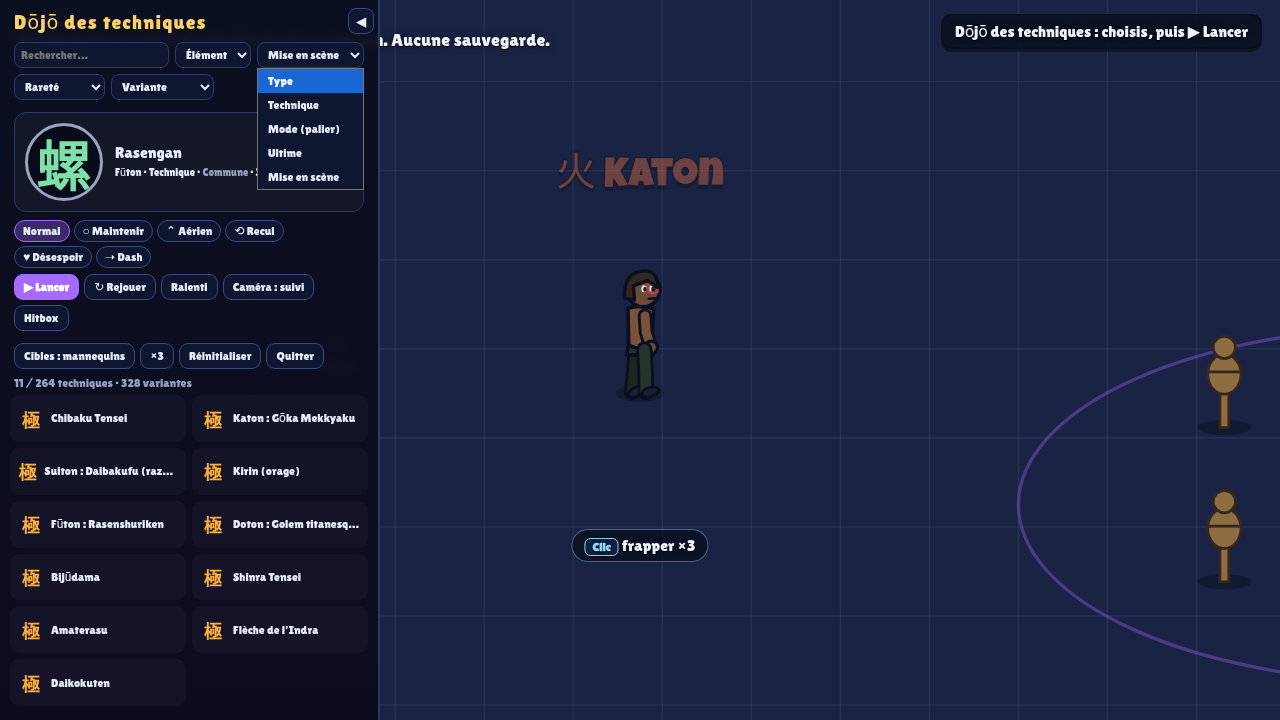
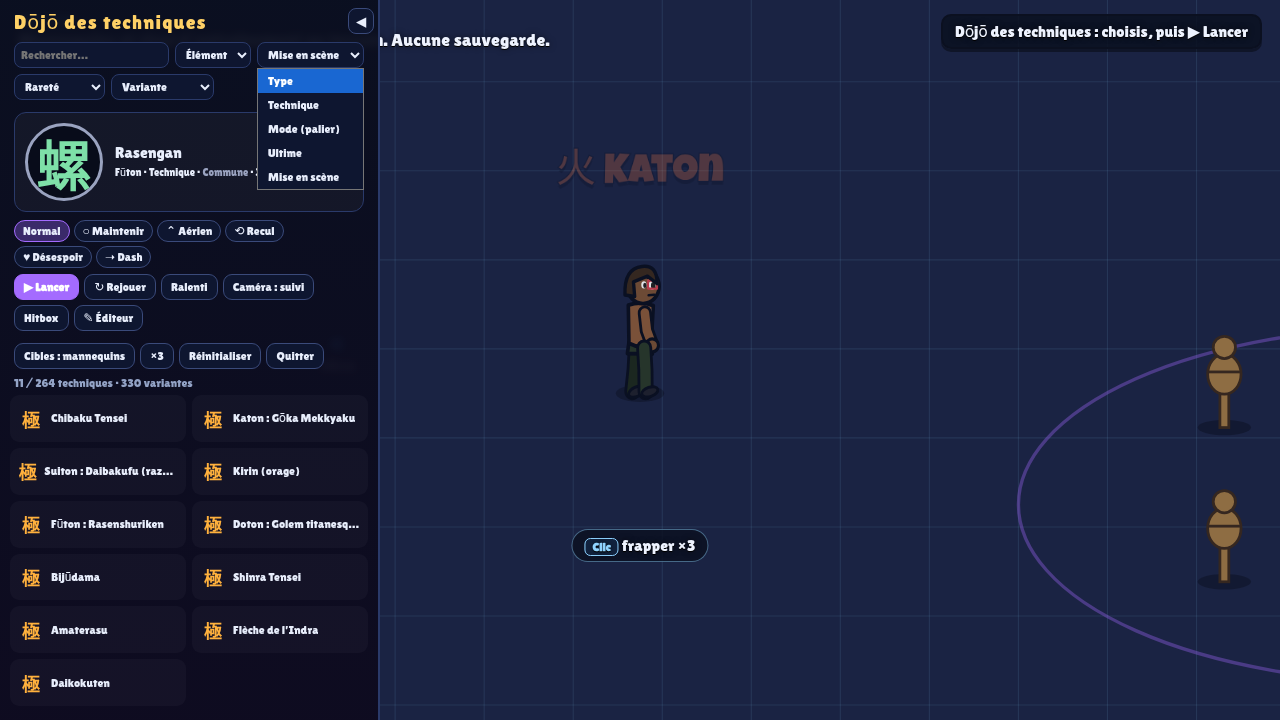
v0.9.3: in-game technique/VFX editor, ADDING_TECHNIQUES.md

diff --git a/index.html b/index.html
@@ -104,7 +104,7 @@ button.b.p{background:var(--gold);color:var(--ink)}button.b.p2{background:var(--
 <script>
 'use strict';
 /* ============ Noyau : réglages, sauvegarde, entrées, audio ============ */
-const VERSION = '0.9.2';
+const VERSION = '0.9.3';
 const $ = (s) => document.querySelector(s);
 const TAU = Math.PI * 2, clamp = (v, a, b) => (v < a ? a : v > b ? b : v), lerp = (a, b, t) => a + (b - a) * t;
 const rnd = (a, b) => a + Math.random() * (b - a), pick = (a) => a[(Math.random() * a.length) | 0];
@@ -3280,5 +3280,56 @@ addEventListener('touchstart',()=>document.body.classList.add('touch07'),{passiv
     g.restore(); g.globalAlpha = 1; g.globalCompositeOperation = 'source-over'; };
 })();
 (() => { if (!window.MODE08) return; const st = MODE08.stage.bind(MODE08); MODE08.stage = function (h, n) { const r = st(h, n); try { const M = h.md, S = M && MODE08.F[M.fam].st[M.st - 1]; if (S && S.sus && !S.giant) Cam.tz = S.sus >= 4 ? 0.72 : S.sus >= 3 ? 0.8 : 0.9; } catch (e) {} return r; }; })();
+
+// v0.9 — Éditeur de techniques / VFX en jeu (dans le Créatif) : réglages en direct, aperçu immédiat, export JSON.
+(() => { if (!window.TECH9 || !window.CREA8) return;
+  const css = document.createElement('style'); css.textContent = `#ed9{position:fixed;right:0;top:0;bottom:0;width:min(360px,94vw);z-index:26;display:none;flex-direction:column;background:linear-gradient(180deg,rgba(10,14,30,.95),rgba(20,10,30,.95));border-left:2px solid #2a3a6a;color:#e8eefc;font:12px/1.35 var(--f-body);overflow:auto}
+#ed9 h2{font:400 18px var(--f-title);margin:10px 12px 4px;color:#ffd166;letter-spacing:.05em}#ed9 .row{display:flex;gap:6px;align-items:center;padding:3px 12px}#ed9 label{flex:0 0 92px;color:#93a3c6}#ed9 input[type=range]{flex:1}#ed9 output{width:42px;text-align:right;color:#ffd166}
+#ed9 select,#ed9 button,#ed9 input[type=color]{background:#0e1630;color:#e8eefc;border:1px solid #3a4a7a;border-radius:8px;padding:4px 7px;font:12px var(--f-body);cursor:pointer}#ed9 .go{background:#a46bff;border-color:#a46bff}
+#ed9 textarea{margin:4px 12px;height:180px;background:#070a16;color:#bfe6ff;border:1px solid #2a3a6a;border-radius:8px;font:11px/1.3 ui-monospace,monospace;resize:vertical}#ed9 textarea.bad{border-color:#ff5a5a}#ed9 .sec{margin:6px 12px 2px;color:#a46bff;font-weight:700;letter-spacing:.08em}
+#ed9 .lay{display:flex;flex-wrap:wrap;gap:4px;padding:2px 12px}#ed9 .lay span{padding:2px 7px;border-radius:10px;border:1px solid #3a4a7a;background:#0e1630;cursor:pointer}#ed9 .lay span:hover{border-color:#ff5a5a;text-decoration:line-through}#ed9 .st{padding:4px 12px;color:#93a3c6}`;
+  document.head.appendChild(css);
+  const PH = ['charge', 'muzzle', 'travel', 'impact', 'after', 'tele'], PRIM = Object.keys(VFX9.EMIT), SHAPES = Object.keys(TECH9.HIT), BODIES = Object.keys(TECH9.BODY), ELS = ['fire', 'water', 'bolt', 'wind', 'earth', 'yin', 'yang', 'none'];
+  const E = document.createElement('div'); E.id = 'ed9'; E.innerHTML = `<h2>Éditeur de techniques</h2>
+<div class="row"><select id="e9id"></select><button id="e9new">＋ Nouvelle</button><button id="e9x">✕</button></div>
+<div class="row"><button class="go" id="e9go">▶ Tester</button><button id="e9loop">Boucle</button><button id="e9fx">Jouer VFX</button><select id="e9ph">${PH.map((p) => `<option>${p}</option>`).join('')}</select></div>
+<div class="sec">BASE</div><div class="row"><label>Élément</label><select id="e9el">${ELS.map((e) => `<option>${e}</option>`).join('')}</select><input type="color" id="e9c"></div>
+<div class="row"><label>Forme</label><select id="e9sh">${SHAPES.map((e) => `<option>${e}</option>`).join('')}</select><select id="e9bd">${BODIES.map((e) => `<option>${e}</option>`).join('')}</select></div>
+<div id="e9num"></div><div class="sec">COUCHES VFX</div><div id="e9lay"></div>
+<div class="row"><select id="e9lp">${PH.map((p) => `<option>${p}</option>`).join('')}</select><select id="e9pr">${PRIM.map((p) => `<option>${p}</option>`).join('')}</select><button id="e9add">＋ couche</button></div>
+<div class="sec">JSON</div><textarea id="e9js" spellcheck="false"></textarea>
+<div class="row"><button id="e9exp">⇩ Exporter</button><button id="e9all">⇩ Tout</button><button id="e9cp">Copier</button><button id="e9sv">Sauver</button></div><div class="st" id="e9st"></div>`;
+  document.body.appendChild(E);
+  const $ = (s) => document.getElementById(s); let cur = null, loop = 0;
+  const NUM = [['cast', 0, 1.2, 0.01], ['end', 0, 1.2, 0.01], ['cd', 0.5, 20, 0.5], ['ch', 0, 80, 1], ['hit.dmg', 1, 120, 1], ['hit.n', 1, 20, 1], ['hit.every', 0, 0.3, 0.01], ['hit.spread', 0, 1, 0.01], ['hit.jit', 0, 0.8, 0.01], ['hit.sp', 100, 1600, 10], ['hit.r', 4, 260, 1], ['hit.life', 0.1, 3, 0.05], ['hit.range', 100, 800, 10], ['hit.stun', 0, 3, 0.1], ['hit.push', 0, 1200, 10], ['hit.aoe', 0, 260, 5], ['hit.delay', 0, 2, 0.05], ['hit.wave', 0, 300, 5], ['hit.grav', -800, 1200, 10]];
+  const getP = (o, k) => k.split('.').reduce((a, b) => (a ? a[b] : undefined), o); const setP = (o, k, v) => { const ks = k.split('.'); let a = o; for (let i = 0; i < ks.length - 1; i++) a = a[ks[i]] = a[ks[i]] || {}; a[ks[ks.length - 1]] = v; };
+  const src = () => TECH9.src[cur]; const apply = (from) => { const s = src(); TECH9.def(s); if (from !== 'js') $('e9js').value = JSON.stringify(s, null, 2); $('e9js').classList.remove('bad'); stat(); };
+  const fill = () => { const ids = Object.keys(TECH9.src); $('e9id').innerHTML = ids.map((i) => `<option value="${i}"${i === cur ? ' selected' : ''}>${TECH9.src[i].n || i}</option>`).join(''); const s = src(); if (!s) return; s.hit = s.hit || {}; s.vfx = s.vfx || {};
+    $('e9el').value = s.el || 'none'; $('e9c').value = s.c || elc(s.el || 'none').slice(0, 7); $('e9sh').value = s.hit.shape || 'proj'; $('e9bd').value = s.hit.body || 'orb';
+    const M = TECH9.get(cur); $('e9num').innerHTML = NUM.map(([k, a, b, st]) => { const v = getP(s, k) ?? getP(M, k) ?? 0; return `<div class="row"><label>${k.replace('hit.', '')}</label><input type="range" min="${a}" max="${b}" step="${st}" value="${v}" data-k="${k}"><output>${(+v).toFixed(st < 1 ? 2 : 0)}</output></div>`; }).join('');
+    $('e9num').querySelectorAll('input').forEach((i) => (i.oninput = () => { const v = +i.value; setP(src(), i.dataset.k, v); i.nextElementSibling.textContent = v.toFixed(+i.step < 1 ? 2 : 0); apply(); }));
+    lay(); $('e9js').value = JSON.stringify(s, null, 2); stat(); };
+  const lay = () => { const s = src(); $('e9lay').innerHTML = PH.map((ph) => { let L = s.vfx[ph]; if (L == null) return ''; L = Array.isArray(L) ? L : [L]; return `<div class="row"><label>${ph}</label></div><div class="lay">${L.map((l, i) => `<span data-ph="${ph}" data-i="${i}" title="clic : retirer">${typeof l === 'string' ? '★ ' + l : l.fx}</span>`).join('')}</div>`; }).join('');
+    $('e9lay').querySelectorAll('span').forEach((sp) => (sp.onclick = () => { const s = src(); let L = s.vfx[sp.dataset.ph]; L = Array.isArray(L) ? L : [L]; L.splice(+sp.dataset.i, 1); s.vfx[sp.dataset.ph] = L; lay(); apply(); })); };
+  const stat = () => { $('e9st').textContent = `${TECH9.count} techniques en données · qualité ${Q9.names[Q9.tier]} · ${FX.P.length}/${FX.cap()} particules · ${Q9.ema.toFixed(1)} ms/image`; };
+  const test = () => { CREA8.sel = cur; CREA8.v = null; document.getElementById('c8go').click(); };
+  $('e9id').onchange = () => { cur = $('e9id').value; fill(); };
+  $('e9el').onchange = () => { src().el = $('e9el').value; const s = src(); for (const ph of PH) if (typeof s.vfx[ph] === 'string') s.vfx[ph] = s.el + '.' + ph; else if (Array.isArray(s.vfx[ph])) s.vfx[ph] = s.vfx[ph].map((l) => (typeof l === 'string' ? s.el + '.' + l.split('.')[1] : l)); lay(); apply(); };
+  $('e9c').oninput = () => { src().c = $('e9c').value; apply(); }; $('e9sh').onchange = () => { src().hit.shape = $('e9sh').value; apply(); }; $('e9bd').onchange = () => { src().hit.body = $('e9bd').value; apply(); };
+  $('e9add').onclick = () => { const s = src(), ph = $('e9lp').value; let L = s.vfx[ph]; L = L == null ? [] : Array.isArray(L) ? L : [L]; L.push({ fx: $('e9pr').value, c: s.c || elc(s.el) }); s.vfx[ph] = L; lay(); apply(); };
+  $('e9js').oninput = () => { try { const o = JSON.parse($('e9js').value); if (!o.id) throw 0; TECH9.src[o.id] = o; cur = o.id; apply('js'); } catch (e) { $('e9js').classList.add('bad'); } };
+  $('e9go').onclick = test; $('e9loop').onclick = () => { loop = loop ? (clearInterval(loop), 0) : setInterval(test, 1700); $('e9loop').classList.toggle('go', !!loop); };
+  $('e9fx').onclick = () => { const f = World.foes()[0] || Game.hero; const s = TECH9.get(cur); VFX9.play(s.vfx[$('e9ph').value] || [], f.x, f.y - 34, { a: 0, follow: null }); };
+  $('e9new').onclick = () => { let n = 1; while (TECH9.src['custom' + n]) n++; const base = JSON.parse(JSON.stringify(TECH9.src[cur] || TECH9.src.teppodama)); base.id = 'custom' + n; base.n = 'Technique perso ' + n; base.glyph = '新'; delete base.variants; TECH9.def(base); cur = base.id; fill(); };
+  const dl = (name, txt) => { const a = document.createElement('a'); a.href = URL.createObjectURL(new Blob([txt], { type: 'application/json' })); a.download = name; a.click(); setTimeout(() => URL.revokeObjectURL(a.href), 1000); };
+  $('e9exp').onclick = () => dl(cur + '.json', TECH9.exportJSON(cur)); $('e9all').onclick = () => dl('techniques.json', TECH9.exportJSON());
+  $('e9cp').onclick = () => { try { navigator.clipboard.writeText(TECH9.exportJSON(cur)); UI.toast('JSON copié'); } catch (e) {} };
+  $('e9sv').onclick = () => { const L = Object.values(TECH9.src).filter((e) => !TECH9.BUILTIN.includes(e.id) || true); try { localStorage.setItem('tbv9_tech', JSON.stringify(L)); UI.toast('Sauvegardé'); } catch (e) {} };
+  $('e9x').onclick = () => (E.style.display = 'none');
+  const ED = (window.ED9 = { open(id) { cur = id || cur || TECH9.BUILTIN[0]; E.style.display = 'flex'; fill(); }, close() { E.style.display = 'none'; } });
+  // bouton dans le Créatif
+  const row = document.querySelector('#crea8 .ctl'); if (row) { const b = document.createElement('button'); b.id = 'c8ed'; b.textContent = '✎ Éditeur'; b.onclick = () => ED.open(CREA8.sel && TECH9.src[CREA8.sel] ? CREA8.sel : null); row.appendChild(b); }
+  setInterval(() => { if (E.style.display === 'flex') stat(); }, 1000);
+})();
 
 </script></body></html>

diff --git a/src/8s_edit9.js b/src/8s_edit9.js
@@ -1,0 +1,50 @@
+// v0.9 — Éditeur de techniques / VFX en jeu (dans le Créatif) : réglages en direct, aperçu immédiat, export JSON.
+(() => { if (!window.TECH9 || !window.CREA8) return;
+  const css = document.createElement('style'); css.textContent = `#ed9{position:fixed;right:0;top:0;bottom:0;width:min(360px,94vw);z-index:26;display:none;flex-direction:column;background:linear-gradient(180deg,rgba(10,14,30,.95),rgba(20,10,30,.95));border-left:2px solid #2a3a6a;color:#e8eefc;font:12px/1.35 var(--f-body);overflow:auto}
+#ed9 h2{font:400 18px var(--f-title);margin:10px 12px 4px;color:#ffd166;letter-spacing:.05em}#ed9 .row{display:flex;gap:6px;align-items:center;padding:3px 12px}#ed9 label{flex:0 0 92px;color:#93a3c6}#ed9 input[type=range]{flex:1}#ed9 output{width:42px;text-align:right;color:#ffd166}
+#ed9 select,#ed9 button,#ed9 input[type=color]{background:#0e1630;color:#e8eefc;border:1px solid #3a4a7a;border-radius:8px;padding:4px 7px;font:12px var(--f-body);cursor:pointer}#ed9 .go{background:#a46bff;border-color:#a46bff}
+#ed9 textarea{margin:4px 12px;height:180px;background:#070a16;color:#bfe6ff;border:1px solid #2a3a6a;border-radius:8px;font:11px/1.3 ui-monospace,monospace;resize:vertical}#ed9 textarea.bad{border-color:#ff5a5a}#ed9 .sec{margin:6px 12px 2px;color:#a46bff;font-weight:700;letter-spacing:.08em}
+#ed9 .lay{display:flex;flex-wrap:wrap;gap:4px;padding:2px 12px}#ed9 .lay span{padding:2px 7px;border-radius:10px;border:1px solid #3a4a7a;background:#0e1630;cursor:pointer}#ed9 .lay span:hover{border-color:#ff5a5a;text-decoration:line-through}#ed9 .st{padding:4px 12px;color:#93a3c6}`;
+  document.head.appendChild(css);
+  const PH = ['charge', 'muzzle', 'travel', 'impact', 'after', 'tele'], PRIM = Object.keys(VFX9.EMIT), SHAPES = Object.keys(TECH9.HIT), BODIES = Object.keys(TECH9.BODY), ELS = ['fire', 'water', 'bolt', 'wind', 'earth', 'yin', 'yang', 'none'];
+  const E = document.createElement('div'); E.id = 'ed9'; E.innerHTML = `<h2>Éditeur de techniques</h2>
+<div class="row"><select id="e9id"></select><button id="e9new">＋ Nouvelle</button><button id="e9x">✕</button></div>
+<div class="row"><button class="go" id="e9go">▶ Tester</button><button id="e9loop">Boucle</button><button id="e9fx">Jouer VFX</button><select id="e9ph">${PH.map((p) => `<option>${p}</option>`).join('')}</select></div>
+<div class="sec">BASE</div><div class="row"><label>Élément</label><select id="e9el">${ELS.map((e) => `<option>${e}</option>`).join('')}</select><input type="color" id="e9c"></div>
+<div class="row"><label>Forme</label><select id="e9sh">${SHAPES.map((e) => `<option>${e}</option>`).join('')}</select><select id="e9bd">${BODIES.map((e) => `<option>${e}</option>`).join('')}</select></div>
+<div id="e9num"></div><div class="sec">COUCHES VFX</div><div id="e9lay"></div>
+<div class="row"><select id="e9lp">${PH.map((p) => `<option>${p}</option>`).join('')}</select><select id="e9pr">${PRIM.map((p) => `<option>${p}</option>`).join('')}</select><button id="e9add">＋ couche</button></div>
+<div class="sec">JSON</div><textarea id="e9js" spellcheck="false"></textarea>
+<div class="row"><button id="e9exp">⇩ Exporter</button><button id="e9all">⇩ Tout</button><button id="e9cp">Copier</button><button id="e9sv">Sauver</button></div><div class="st" id="e9st"></div>`;
+  document.body.appendChild(E);
+  const $ = (s) => document.getElementById(s); let cur = null, loop = 0;
+  const NUM = [['cast', 0, 1.2, 0.01], ['end', 0, 1.2, 0.01], ['cd', 0.5, 20, 0.5], ['ch', 0, 80, 1], ['hit.dmg', 1, 120, 1], ['hit.n', 1, 20, 1], ['hit.every', 0, 0.3, 0.01], ['hit.spread', 0, 1, 0.01], ['hit.jit', 0, 0.8, 0.01], ['hit.sp', 100, 1600, 10], ['hit.r', 4, 260, 1], ['hit.life', 0.1, 3, 0.05], ['hit.range', 100, 800, 10], ['hit.stun', 0, 3, 0.1], ['hit.push', 0, 1200, 10], ['hit.aoe', 0, 260, 5], ['hit.delay', 0, 2, 0.05], ['hit.wave', 0, 300, 5], ['hit.grav', -800, 1200, 10]];
+  const getP = (o, k) => k.split('.').reduce((a, b) => (a ? a[b] : undefined), o); const setP = (o, k, v) => { const ks = k.split('.'); let a = o; for (let i = 0; i < ks.length - 1; i++) a = a[ks[i]] = a[ks[i]] || {}; a[ks[ks.length - 1]] = v; };
+  const src = () => TECH9.src[cur]; const apply = (from) => { const s = src(); TECH9.def(s); if (from !== 'js') $('e9js').value = JSON.stringify(s, null, 2); $('e9js').classList.remove('bad'); stat(); };
+  const fill = () => { const ids = Object.keys(TECH9.src); $('e9id').innerHTML = ids.map((i) => `<option value="${i}"${i === cur ? ' selected' : ''}>${TECH9.src[i].n || i}</option>`).join(''); const s = src(); if (!s) return; s.hit = s.hit || {}; s.vfx = s.vfx || {};
+    $('e9el').value = s.el || 'none'; $('e9c').value = s.c || elc(s.el || 'none').slice(0, 7); $('e9sh').value = s.hit.shape || 'proj'; $('e9bd').value = s.hit.body || 'orb';
+    const M = TECH9.get(cur); $('e9num').innerHTML = NUM.map(([k, a, b, st]) => { const v = getP(s, k) ?? getP(M, k) ?? 0; return `<div class="row"><label>${k.replace('hit.', '')}</label><input type="range" min="${a}" max="${b}" step="${st}" value="${v}" data-k="${k}"><output>${(+v).toFixed(st < 1 ? 2 : 0)}</output></div>`; }).join('');
+    $('e9num').querySelectorAll('input').forEach((i) => (i.oninput = () => { const v = +i.value; setP(src(), i.dataset.k, v); i.nextElementSibling.textContent = v.toFixed(+i.step < 1 ? 2 : 0); apply(); }));
+    lay(); $('e9js').value = JSON.stringify(s, null, 2); stat(); };
+  const lay = () => { const s = src(); $('e9lay').innerHTML = PH.map((ph) => { let L = s.vfx[ph]; if (L == null) return ''; L = Array.isArray(L) ? L : [L]; return `<div class="row"><label>${ph}</label></div><div class="lay">${L.map((l, i) => `<span data-ph="${ph}" data-i="${i}" title="clic : retirer">${typeof l === 'string' ? '★ ' + l : l.fx}</span>`).join('')}</div>`; }).join('');
+    $('e9lay').querySelectorAll('span').forEach((sp) => (sp.onclick = () => { const s = src(); let L = s.vfx[sp.dataset.ph]; L = Array.isArray(L) ? L : [L]; L.splice(+sp.dataset.i, 1); s.vfx[sp.dataset.ph] = L; lay(); apply(); })); };
+  const stat = () => { $('e9st').textContent = `${TECH9.count} techniques en données · qualité ${Q9.names[Q9.tier]} · ${FX.P.length}/${FX.cap()} particules · ${Q9.ema.toFixed(1)} ms/image`; };
+  const test = () => { CREA8.sel = cur; CREA8.v = null; document.getElementById('c8go').click(); };
+  $('e9id').onchange = () => { cur = $('e9id').value; fill(); };
+  $('e9el').onchange = () => { src().el = $('e9el').value; const s = src(); for (const ph of PH) if (typeof s.vfx[ph] === 'string') s.vfx[ph] = s.el + '.' + ph; else if (Array.isArray(s.vfx[ph])) s.vfx[ph] = s.vfx[ph].map((l) => (typeof l === 'string' ? s.el + '.' + l.split('.')[1] : l)); lay(); apply(); };
+  $('e9c').oninput = () => { src().c = $('e9c').value; apply(); }; $('e9sh').onchange = () => { src().hit.shape = $('e9sh').value; apply(); }; $('e9bd').onchange = () => { src().hit.body = $('e9bd').value; apply(); };
+  $('e9add').onclick = () => { const s = src(), ph = $('e9lp').value; let L = s.vfx[ph]; L = L == null ? [] : Array.isArray(L) ? L : [L]; L.push({ fx: $('e9pr').value, c: s.c || elc(s.el) }); s.vfx[ph] = L; lay(); apply(); };
+  $('e9js').oninput = () => { try { const o = JSON.parse($('e9js').value); if (!o.id) throw 0; TECH9.src[o.id] = o; cur = o.id; apply('js'); } catch (e) { $('e9js').classList.add('bad'); } };
+  $('e9go').onclick = test; $('e9loop').onclick = () => { loop = loop ? (clearInterval(loop), 0) : setInterval(test, 1700); $('e9loop').classList.toggle('go', !!loop); };
+  $('e9fx').onclick = () => { const f = World.foes()[0] || Game.hero; const s = TECH9.get(cur); VFX9.play(s.vfx[$('e9ph').value] || [], f.x, f.y - 34, { a: 0, follow: null }); };
+  $('e9new').onclick = () => { let n = 1; while (TECH9.src['custom' + n]) n++; const base = JSON.parse(JSON.stringify(TECH9.src[cur] || TECH9.src.teppodama)); base.id = 'custom' + n; base.n = 'Technique perso ' + n; base.glyph = '新'; delete base.variants; TECH9.def(base); cur = base.id; fill(); };
+  const dl = (name, txt) => { const a = document.createElement('a'); a.href = URL.createObjectURL(new Blob([txt], { type: 'application/json' })); a.download = name; a.click(); setTimeout(() => URL.revokeObjectURL(a.href), 1000); };
+  $('e9exp').onclick = () => dl(cur + '.json', TECH9.exportJSON(cur)); $('e9all').onclick = () => dl('techniques.json', TECH9.exportJSON());
+  $('e9cp').onclick = () => { try { navigator.clipboard.writeText(TECH9.exportJSON(cur)); UI.toast('JSON copié'); } catch (e) {} };
+  $('e9sv').onclick = () => { const L = Object.values(TECH9.src).filter((e) => !TECH9.BUILTIN.includes(e.id) || true); try { localStorage.setItem('tbv9_tech', JSON.stringify(L)); UI.toast('Sauvegardé'); } catch (e) {} };
+  $('e9x').onclick = () => (E.style.display = 'none');
+  const ED = (window.ED9 = { open(id) { cur = id || cur || TECH9.BUILTIN[0]; E.style.display = 'flex'; fill(); }, close() { E.style.display = 'none'; } });
+  // bouton dans le Créatif
+  const row = document.querySelector('#crea8 .ctl'); if (row) { const b = document.createElement('button'); b.id = 'c8ed'; b.textContent = '✎ Éditeur'; b.onclick = () => ED.open(CREA8.sel && TECH9.src[CREA8.sel] ? CREA8.sel : null); row.appendChild(b); }
+  setInterval(() => { if (E.style.display === 'flex') stat(); }, 1000);
+})();

diff --git a/src/10_core.js b/src/10_core.js
@@ -1,6 +1,6 @@
 'use strict';
 /* ============ Noyau : réglages, sauvegarde, entrées, audio ============ */
-const VERSION = '0.9.2';
+const VERSION = '0.9.3';
 const $ = (s) => document.querySelector(s);
 const TAU = Math.PI * 2, clamp = (v, a, b) => (v < a ? a : v > b ? b : v), lerp = (a, b, t) => a + (b - a) * t;
 const rnd = (a, b) => a + Math.random() * (b - a), pick = (a) => a[(Math.random() * a.length) | 0];

diff --git a/ADDING_TECHNIQUES.md b/ADDING_TECHNIQUES.md
@@ -1,0 +1,61 @@
+# Ajouter une technique (v0.9)
+
+Une technique est **un bloc de données**. Il n'y a aucun code moteur à écrire.
+
+## 1. Le bloc
+Ajoute une entrée dans `src/8q_tech9.js` (tableau `D`), ou appelle `TECH9.def({...})` depuis n'importe quel fichier `src/8*.js` :
+
+```js
+TECH9.def({
+  id: 'suiryudan9', n: 'Suiton : Suiryūdan', el: 'water', glyph: '龍', cd: 7, ch: 30, sign: 'tora',
+  cast: 0.35, end: 0.3,                                     // incantation (anticipation) et récupération, en s
+  anim: [{ t: 0, sq: 0.3 }, { t: 0.35, sq: -0.3, lunge: -10, shake: 0.1 }],   // images clés : écrasement, recul, invulnérabilité, VFX
+  hit: { shape: 'proj', n: 1, sp: 560, r: 30, life: 1.3, dmg: 34, home: 1, body: 'beast', aoe: 120 },
+  vfx: { charge: 'water.charge', muzzle: 'water.muzzle', travel: 'water.travel',
+         impact: ['water.impact', { fx: 'splash', n: 16 }, { fx: 'cam', shake: 0.2 }] },
+  sfx: 'tech',
+  variants: { hold: { hit: { n: 2, spread: 0.4 } }, terrain: { mul: { dmg: 1.3, r: 1.4 } } },
+});
+```
+
+- **Formes** (`hit.shape`) :
+  - `proj` : n, every, spread, jit, sp, r, life, pierce, home, boom, aoe, ret (boomerang), wave, grav, spin, body ;
+  - `circle` : at self|aim|foe, r, delay (avec télégraphe), ticks ;
+  - `cone` : range, arc ;
+  - `beam` : L, w, ticks ;
+  - `dash` : D, dur ;
+  - `rain` : n, every, r ;
+  - `wall` : len, h, life (bloque les projectiles ennemis) ;
+  - `chain` : n, jump, falloff.
+- **Effets communs** : dmg, kb, stun, slow, push, pull, big.
+- **Corps des projectiles** (`hit.body`) : orb, flame, drop, blade, bolt, rock, beast.
+- **Variantes** : les clés sont les contextes de VAR8 (hold, dash, combo, air, back, parry, mode, elem2, duo, clone, wall, low). Une variante fusionne ses champs dans le bloc ; `mul` multiplie les valeurs numériques de `hit`.
+
+## 2. Les couches VFX
+Une phase (charge, muzzle, travel, impact, after, tele) prend un nom de préréglage (`'fire.impact'`) ou une liste de couches.
+
+- Chaque couche accepte `{ fx, …paramètres, at (délai), p (probabilité), tier (palier de qualité minimum), ox/oy }`.
+- **Primitives** :
+
+| Famille | Primitives |
+|---|---|
+| Lumière | glow, star |
+| Particules | burst (sprite : ember, drop, shard, cres, dust, leaf, wisp, glow, core), licks (flammes), splash (gouttes), chunks (éclats de roche), dustc, smoke |
+| Formes | ring, shock, arcs (éclairs ramifiés), bolt (foudre du ciel), crescents (vent), beam |
+| Sol et sillage | decal (scorch, crack, splat, slash, burn), trail (ruban) |
+| Écran et son | dist (distorsion), screen (flash qui respecte « réduire les flashs », ou dark), cam (shake, zoom, hitstop), sfx |
+
+- **Préréglages** par élément : fire, water, bolt, wind, earth, yin, yang, none. Chacun contient charge, muzzle, travel, impact et big.
+- Tous les projectiles et tous les coups élémentaires du jeu reçoivent automatiquement la traînée et l'impact de leur élément.
+
+## 3. Tester en direct
+Dans Créatif, ouvre **✎ Éditeur**. Tu peux :
+- régler les curseurs, l'élément, la couleur, la forme et le corps ;
+- ajouter ou retirer des couches, ou éditer le JSON ;
+- cliquer sur **Tester** (ou **Boucle**) pour voir le résultat tout de suite ;
+- **Exporter** le JSON et le coller dans `D`.
+
+« Sauver » garde tes techniques dans le navigateur.
+
+## 4. Modes
+Les paliers de mode sont des données (`MODE08.F`). `MODE08.defFamily(id, { n, c, key, st: [{ n, sus, sk: [S8(...)], ult: [...] }] })` ajoute une famille complète. Les compétences de palier reçoivent les couches de leur élément.

diff --git a/PATCH_NOTES.md b/PATCH_NOTES.md
@@ -1,3 +1,12 @@
+# v0.9.3 — Éditeur de techniques
+- **Créatif → ✎ Éditeur** :
+  - curseurs pour le temps, les dégâts, le nombre, la vitesse, la taille et les effets ;
+  - choix de l'élément, de la couleur, de la forme et du projectile ;
+  - ajout ou retrait de couches d'effets, JSON éditable ;
+  - Tester et Boucle, avec rendu immédiat ;
+  - Exporter et Copier le JSON, Sauver ; création de techniques perso.
+- Guide `ADDING_TECHNIQUES.md` : une technique = un bloc de données.
+
 # v0.9.2 — Susanoo redessiné
 - **Flammes de chakra translucides** au bord mouvant, qui scintillent même au repos.
 - **Anatomie réelle** : colonne, 7 paires de côtes, clavicules, crâne et mâchoire, bras à deux os et mains.
